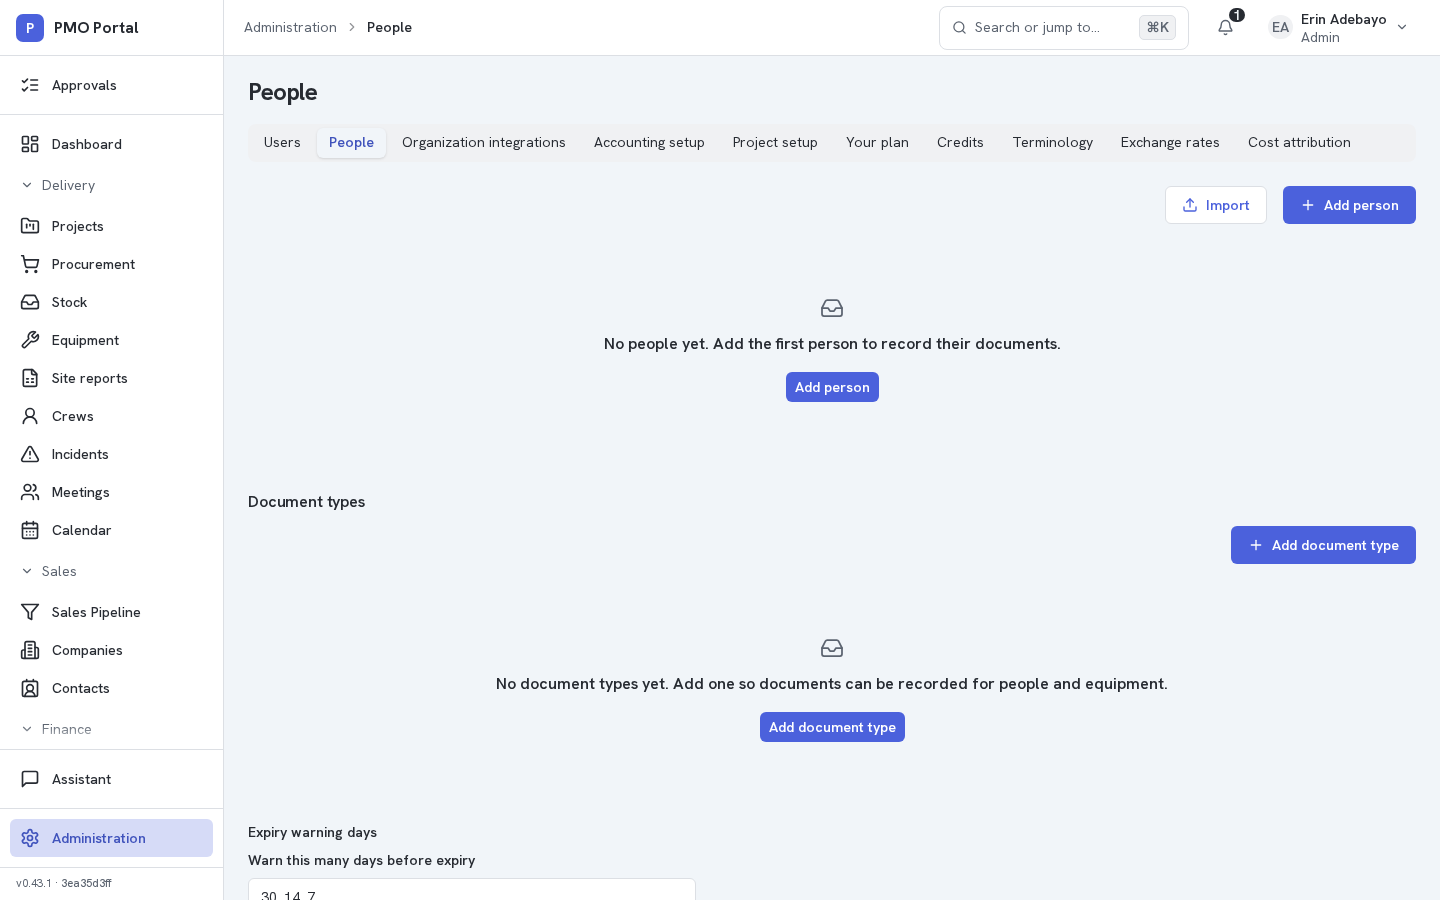
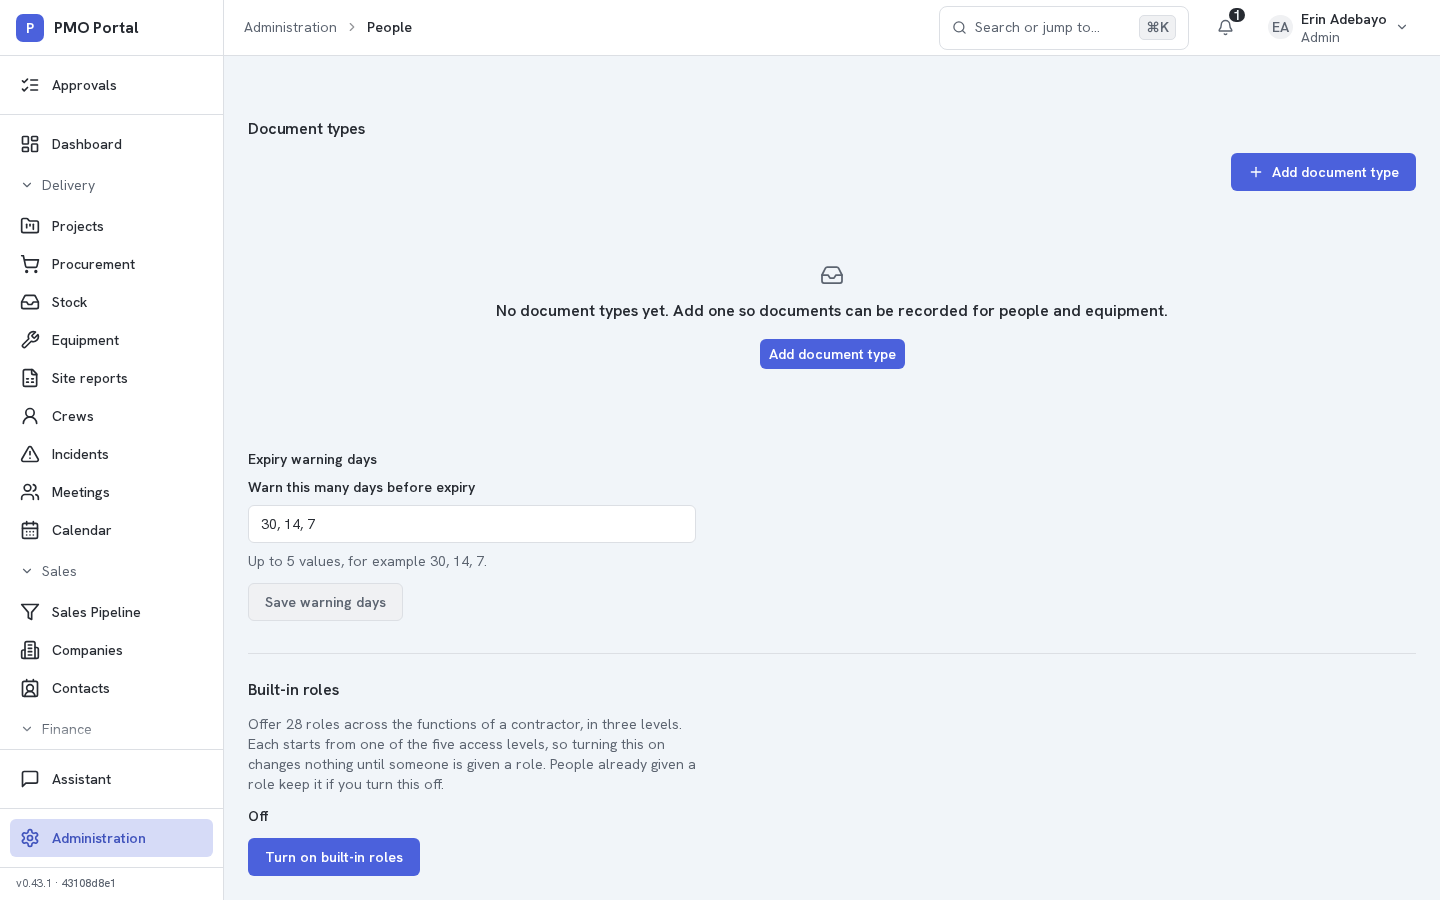
Built-in roles: journey passes, evidence screenshots (#2709)

diff --git a/pmo-portal/e2e/serial/AC-BIR-001-built-in-roles-assignment.spec.ts b/pmo-portal/e2e/serial/AC-BIR-001-built-in-roles-assignment.spec.ts
@@ -9,7 +9,7 @@ import { signIn, pinEnglishLocale } from '../helpers';
  * directory, and while the setting is off the Edit role form is the plain five-level form.
  * Also writes the two evidence screenshots per new screen (phone 390 and desktop 1440) under docs/evidence/1215/2709/.
  */
-test.setTimeout(420_000);
+test.setTimeout(240_000);
 
 const EVIDENCE = path.resolve(path.dirname(fileURLToPath(import.meta.url)), '../../../docs/evidence/1215/2709');
 const SIZES = [{ name: 'phone-390', width: 390, height: 844 }, { name: 'desktop-1440', width: 1440, height: 900 }] as const;
@@ -19,10 +19,21 @@ async function shoot(page: Page, screen: string) {
   if (process.env.EVIDENCE_SHOTS !== '1') return;
   for (const size of SIZES) {
     await page.setViewportSize({ width: size.width, height: size.height });
-    await page.waitForTimeout(250);
+    const heading = page.getByRole('heading', { name: 'Built-in roles' });
+    if (screen.startsWith('setting')) await heading.evaluate((el) => el.scrollIntoView({ block: 'center' }));
+    await page.waitForTimeout(400);
     await page.screenshot({ path: path.join(EVIDENCE, `${screen}-${size.name}.png`), fullPage: false });
   }
   await page.setViewportSize({ width: 1280, height: 800 });
+}
+
+/** Search for the seeded Engineer and return their row once the directory has narrowed to it (the search is debounced). */
+async function engineerRow(page: Page) {
+  await page.getByRole('searchbox').first().fill('engineer@acme.test');
+  const row = page.getByRole('row').filter({ hasText: 'engineer@acme.test' });
+  await expect(page.getByRole('row').filter({ hasText: '@' })).toHaveCount(1);
+  await expect(row).toBeVisible();
+  return row;
 }
 
 test('AC-BIR-001: setting off keeps the plain form; on offers 28 roles; a role is given and shown', async ({ page }) => {
@@ -44,8 +55,7 @@ test('AC-BIR-001: setting off keeps the plain form; on offers 28 roles; a role i
 
     // Give the seeded Engineer the Planner role.
     await page.goto('/administration/users');
-    await page.getByRole('searchbox').first().fill('engineer@acme.test');
-    const menu = page.getByRole('button', { name: 'Row actions' }).first();
+    const menu = (await engineerRow(page)).getByRole('button', { name: 'Row actions' });
     await menu.click();
     await page.getByRole('menuitem', { name: 'Edit role' }).click();
     const picker = page.getByLabel('Built-in role');
@@ -56,25 +66,36 @@ test('AC-BIR-001: setting off keeps the plain form; on offers 28 roles; a role i
     await shoot(page, 'edit-role-picker');
     await page.getByRole('button', { name: 'Save role' }).click();
     await page.getByRole('button', { name: 'Change role' }).click();
-    await expect(page.getByText('Billing Officer').first()).toBeVisible();
+    await expect((await engineerRow(page)).getByText('Billing Officer')).toBeVisible();
 
-    // Clear it again so the seed person is back to the plain level.
-    await menu.click();
+    // Clear it. Clearing keeps the access level the role had set (Finance); the plain form then puts the seeded Engineer back.
+    await (await engineerRow(page)).getByRole('button', { name: 'Row actions' }).click();
     await page.getByRole('menuitem', { name: 'Edit role' }).click();
     await page.getByLabel('Built-in role').selectOption('');
     await page.getByRole('button', { name: 'Save role' }).click();
     await page.getByRole('button', { name: 'Change role' }).click();
-    await expect(page.getByText('Billing Officer')).toHaveCount(0);
+    await expect((await engineerRow(page)).getByText('Billing Officer')).toHaveCount(0); // the toast also names it, so look only in the row
+    await expect((await engineerRow(page)).getByText('Finance')).toBeVisible();
+    await (await engineerRow(page)).getByRole('button', { name: 'Row actions' }).click();
+    await page.getByRole('menuitem', { name: 'Edit role' }).click();
+    await page.getByRole('combobox', { name: /^Role/ }).selectOption('Engineer');
+    await page.getByRole('button', { name: 'Save role' }).click();
+    await page.getByRole('button', { name: 'Change role' }).click();
+    await expect((await engineerRow(page)).getByText('Engineer', { exact: true })).toBeVisible();
   } finally {
     await page.goto('/administration/people');
+    const toggle = page.getByRole('button', { name: /^Turn (on|off) built-in roles$/ });
+    await expect(toggle).toBeVisible();
     const off = page.getByRole('button', { name: 'Turn off built-in roles' });
-    if (await off.isVisible().catch(() => false)) await off.click();
+    if (await off.isVisible()) {
+      await off.click();
+      await expect(page.getByRole('button', { name: 'Turn on built-in roles' })).toBeVisible();
+    }
   }
 
   // Off again: the Edit role form is the plain one.
   await page.goto('/administration/users');
-  await page.getByRole('searchbox').first().fill('engineer@acme.test');
-  await page.getByRole('button', { name: 'Row actions' }).first().click();
+  await (await engineerRow(page)).getByRole('button', { name: 'Row actions' }).click();
   await page.getByRole('menuitem', { name: 'Edit role' }).click();
   await expect(page.getByLabel('Built-in role')).toHaveCount(0);
 });
